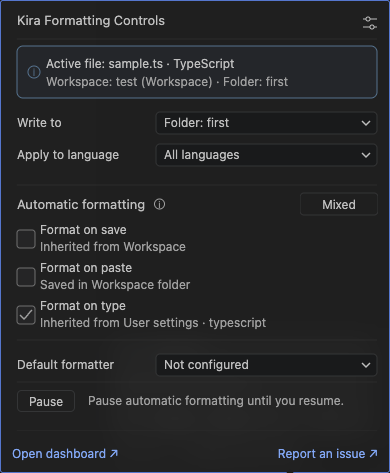
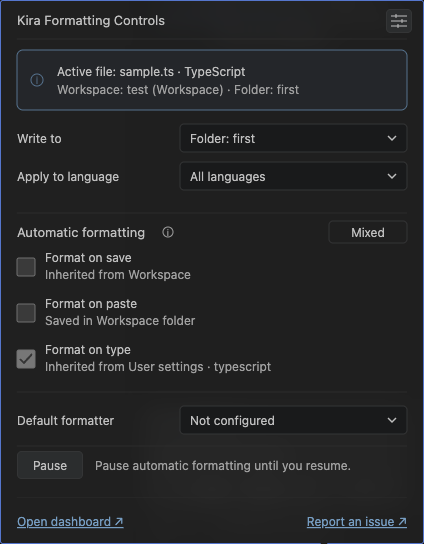
fix: match approved status card proportions

diff --git a/shared/status-artwork.ts b/shared/status-artwork.ts
@@ -28,7 +28,10 @@ const palettes = {
     info: "#22262a",
     input: "#181a1b",
     border: "#333536",
-    checkbox: "#252526",
+    button: "#2a2d2e",
+    checkbox: "#3a3a3a",
+    checkboxChecked: "#777777",
+    checkboxTick: "#353535",
     checkboxBorder: "#707070",
   },
   light: {
@@ -40,7 +43,10 @@ const palettes = {
     info: "#eaf4fa",
     input: "#ffffff",
     border: "#929292",
-    checkbox: "#ffffff",
+    button: "#e6e6e6",
+    checkbox: "#eeeeee",
+    checkboxChecked: "#b8b8b8",
+    checkboxTick: "#555555",
     checkboxBorder: "#929292",
   },
   contrast: {
@@ -52,7 +58,10 @@ const palettes = {
     info: "#000000",
     input: "#000000",
     border: "#ffffff",
+    button: "#000000",
     checkbox: "#000000",
+    checkboxChecked: "#000000",
+    checkboxTick: "#ffffff",
     checkboxBorder: "#ffffff",
   },
   "contrast-light": {
@@ -64,7 +73,10 @@ const palettes = {
     info: "#ffffff",
     input: "#ffffff",
     border: "#000000",
+    button: "#ffffff",
     checkbox: "#ffffff",
+    checkboxChecked: "#ffffff",
+    checkboxTick: "#000000",
     checkboxBorder: "#000000",
   },
 } as const;
@@ -114,7 +126,7 @@ export function statusArtwork(
     anchor: "start" | "middle" = "start",
   ) =>
     `<text x="${x}" y="${y}" font-size="${size}" fill="${color}" text-anchor="${anchor}" dominant-baseline="central">${escapeText(value)}</text>`;
-  const line = (y: number) => `<path d="M5 ${y}H365" stroke="${p.line}"/>`;
+  const line = (y: number) => `<path d="M5 ${y}H395" stroke="${p.line}"/>`;
   const rect = (
     x: number,
     y: number,
@@ -126,10 +138,10 @@ export function statusArtwork(
   ) =>
     `<rect x="${x}" y="${y}" width="${w}" height="${h}" rx="${r}" stroke="${stroke}" fill="${fill}"/>`;
   const dropdown = (y: number, value: string) =>
-    rect(144, y, 221, 22) +
-    text(152, y + 15, shortened(value, 33)) +
-    `<path d="M350 ${y + 9}l4 4 4-4" fill="none" stroke="${p.fg}" stroke-width="1.2"/>`;
-  const svg = (height: number, contents: string, width = 366) =>
+    rect(168, y, 227, 28) +
+    centeredText(178, y + 14, shortened(value, 33)) +
+    `<path d="M376 ${y + 12}l4 4 4-4" fill="none" stroke="${p.fg}" stroke-width="1.2"/>`;
+  const svg = (height: number, contents: string, width = 400) =>
     `<svg xmlns="http://www.w3.org/2000/svg" width="${width}" height="${height}" viewBox="0 0 ${width} ${height}"><g font-family="-apple-system, BlinkMacSystemFont, Segoe WPC, Segoe UI, system-ui, Ubuntu, Droid Sans, sans-serif" font-weight="400">${contents}</g></svg>`;
   const state = context.flags.every(Boolean)
     ? "Enabled"
@@ -159,18 +171,26 @@ export function statusArtwork(
     height: number,
     contents: string,
     alt: string,
-    width = 366,
+    width = 400,
   ) => ({ svg: svg(height, contents, width), alt, width, height });
   const flagContents = ["save", "paste", "type"]
     .map((label, i) => {
-      const y = i * 38;
+      const y = i * 46;
       return (
-        rect(5, y + 9, 18, 18, p.checkboxBorder, p.checkbox, 3) +
+        rect(
+          5,
+          y + 9,
+          18,
+          18,
+          p.checkboxBorder,
+          context.flags[i] ? p.checkboxChecked : p.checkbox,
+          2,
+        ) +
         (context.flags[i]
-          ? `<path d="M8 ${y + 18}l4 4 8-9" stroke="${p.muted}" stroke-width="1.4" fill="none"/>`
+          ? `<path d="M8 ${y + 18}l4 4 8-9" stroke="${p.checkboxTick}" stroke-width="2" fill="none"/>`
           : "") +
-        text(28, y + 13, `Format on ${label}`) +
-        text(28, y + 30, shortened(sourceNotes[i] ?? "", 57), 12, p.muted)
+        text(33, y + 13, `Format on ${label}`) +
+        text(33, y + 30, shortened(sourceNotes[i] ?? "", 59), 12, p.muted)
       );
     })
     .join("");
@@ -188,10 +208,10 @@ export function statusArtwork(
   return {
     settings: image(
       24,
-      rect(0.5, 0.5, 27, 23, p.border, "none") +
-        `<g transform="translate(7 5)" fill="none" stroke="${p.fg}" stroke-width="1"><path d="M0 3h3m4 0h7M0 11h7m4 0h3"/><circle cx="5" cy="3" r="2"/><circle cx="9" cy="11" r="2"/></g>`,
+      rect(0.5, 0.5, 25, 23, p.border, p.button) +
+        `<g transform="translate(5 5)" fill="none" stroke="${p.fg}" stroke-width="1"><path d="M0 2h16M0 7h16M0 12h16M5 0v4M11 5v4M7 10v4"/></g>`,
       "Open VS Code Settings",
-      28,
+      26,
     ),
     info: image(
       20,
@@ -204,25 +224,25 @@ export function statusArtwork(
       28,
       centeredText(5, 14, "Kira Formatting Controls", 13),
       "Kira Formatting Controls",
-      236,
+      270,
     ),
     context: image(
-      64,
+      76,
       line(1) +
-        rect(5, 8, 360, 52, p.focus, p.info, 6) +
-        `<circle cx="22" cy="34" r="6" stroke="${p.focus}" fill="none"/>` +
-        centeredText(22, 34, "i", 10, p.focus, "middle") +
-        centeredText(34, 25, shortened(file, 52)) +
-        centeredText(34, 43, shortened(workspace, 54), 12, p.muted),
+        rect(5, 12, 390, 60, p.focus, p.info, 6) +
+        `<circle cx="25" cy="42" r="6" stroke="${p.focus}" fill="none"/>` +
+        centeredText(25, 42, "i", 10, p.focus, "middle") +
+        centeredText(45, 33, shortened(file, 56)) +
+        centeredText(45, 51, shortened(workspace, 56), 12, p.muted),
       `${file}. ${workspace}.`,
     ),
     scopes: image(
-      80,
-      text(5, 21, "Write to") +
+      96,
+      centeredText(5, 20, "Write to") +
         dropdown(6, scope) +
-        text(5, 53, "Apply to language") +
-        dropdown(38, language) +
-        line(79),
+        centeredText(5, 58, "Apply to language") +
+        dropdown(44, language) +
+        line(95),
       `Write to: ${scope}. Apply to language: ${language}. Read-only.`,
     ),
     heading: image(
@@ -241,46 +261,58 @@ export function statusArtwork(
     summary: image(
       26,
       text(5, 18, "Automatic formatting", 13) +
-        `<circle cx="145" cy="13" r="5" stroke="${p.muted}" fill="none"/>` +
-        centeredText(145, 13, "i", 9, p.muted, "middle") +
-        rect(287, 2, 78, 22, p.border, "none") +
-        centeredText(326, 13, state, 12, p.fg, "middle"),
+        `<circle cx="156" cy="13" r="5" stroke="${p.muted}" fill="none"/>` +
+        centeredText(156, 13, "i", 9, p.muted, "middle") +
+        rect(317, 2, 78, 22, p.border, "none") +
+        centeredText(356, 13, state, 12, p.fg, "middle"),
       `Automatic formatting: ${state}`,
     ),
     formatting: image(
-      114,
+      138,
       flagContents,
       `${flagDescription} Checkbox displays are read-only.`,
     ),
     formatter: image(
-      44,
+      56,
       line(1) +
-        text(5, 30, "Default formatter") +
+        centeredText(5, 29, "Default formatter") +
         dropdown(15, context.formatter ?? "Not configured") +
-        line(43),
+        line(55),
       `Default formatter: ${context.formatter ?? "Not configured"}. Read-only.`,
     ),
     pause: image(
-      22,
-      rect(0.5, 0.5, 57, 21, p.border, p.input) +
+      28,
+      rect(0.5, 0.5, 65, 27, p.border, p.button) +
         centeredText(
-          29,
-          11,
+          33,
+          14,
           context.paused ? "Resume" : "Pause",
           12,
           context.canPause ? p.fg : p.muted,
           "middle",
         ),
       context.paused ? "Resume" : "Pause",
-      58,
+      66,
     ),
-    pauseInset: image(22, "", "", 5),
+    pauseInset: image(28, "", "", 5),
     pauseCaption: image(
-      22,
-      text(13, 15, pauseCaption, 12, p.muted),
+      28,
+      centeredText(12, 14, pauseCaption, 12, p.muted),
       pauseCaption,
-      303,
+      329,
     ),
     separator: image(1, line(0.5), ""),
+    dashboard: image(
+      32,
+      `<text x="5" y="20" font-size="12" fill="${p.accent}" text-decoration="underline">Open dashboard ↗</text>`,
+      "Open dashboard ↗",
+      270,
+    ),
+    issue: image(
+      32,
+      `<text x="125" y="20" text-anchor="end" font-size="12" fill="${p.accent}" text-decoration="underline">Report an issue ↗</text>`,
+      "Report an issue ↗",
+      130,
+    ),
   };
 }

diff --git a/test/status.ts b/test/status.ts
@@ -71,9 +71,9 @@ export async function reviewStatus(
         return {
           badgeOffsetX: badgeText.x + badgeText.width/2 - 39,
           badgeOffsetY: badgeText.y + badgeText.height/2 - 13,
-          contextOffsetY: (file.y + workspace.y + workspace.height)/2 - 34,
-          pauseOffsetX: pauseText.x + pauseText.width/2 - 29,
-          pauseOffsetY: pauseText.y + pauseText.height/2 - 11,
+          contextOffsetY: (file.y + workspace.y + workspace.height)/2 - 42,
+          pauseOffsetX: pauseText.x + pauseText.width/2 - 33,
+          pauseOffsetY: pauseText.y + pauseText.height/2 - 14,
           headerFits: title.x + title.width <= art.header.width,
           captionFits: caption.x + caption.width <= art.pauseCaption.width - 2,
         };
@@ -109,8 +109,8 @@ export async function reviewStatus(
   const loaded = async () => {
     await hover.waitFor({ state: "visible" });
     const images = hover.locator("img");
-    await images.nth(10).waitFor();
-    assert.equal(await images.count(), 11, "All status artwork is rendered");
+    await images.nth(12).waitFor();
+    assert.equal(await images.count(), 13, "All status artwork is rendered");
   };
   const dismiss = async () => {
     // A transient hover may already have closed after a screenshot. Focus it
@@ -216,6 +216,25 @@ export async function reviewStatus(
   );
   const dashboard = hover.getByRole("link", { name: /^Open dashboard/ });
   const issue = hover.getByRole("link", { name: /^Report an issue/ });
+  const contextBounds = await fileInfo.boundingBox();
+  const dashboardBounds = await dashboard.getByRole("img").boundingBox();
+  const issueBounds = await issue.getByRole("img").boundingBox();
+  assert.ok(contextBounds && dashboardBounds && issueBounds);
+  assert.equal(
+    dashboardBounds.x,
+    contextBounds.x,
+    "Footer shares the context artwork's left edge",
+  );
+  assert.equal(
+    issueBounds.x + issueBounds.width,
+    contextBounds.x + contextBounds.width,
+    "Issue action shares the context artwork's right edge",
+  );
+  assert.equal(
+    dashboardBounds.y,
+    issueBounds.y,
+    "Footer actions stay on the same row",
+  );
   assert.equal(await issue.getAttribute("data-href"), issueUrl);
   assert.equal(
     await dashboard.getAttribute("title"),
@@ -226,8 +245,8 @@ export async function reviewStatus(
   assert.equal(await pauseLink.getAttribute("title"), null);
   const pauseImage = pauseLink.getByRole("img", { name: "Pause", exact: true });
   assert.equal(await pauseImage.getAttribute("title"), null);
-  assert.equal((await pauseImage.boundingBox())?.width, 58);
-  assert.equal((await pauseImage.boundingBox())?.height, 22);
+  assert.equal((await pauseImage.boundingBox())?.width, 66);
+  assert.equal((await pauseImage.boundingBox())?.height, 28);
   const caption = hover.getByRole("img", {
     name: "Pause automatic formatting until you resume.",
     exact: true,

diff --git a/test/unit/status-hover.ts b/test/unit/status-hover.ts
@@ -37,17 +37,14 @@ test("reference artwork has live values, accessible descriptions and read-only f
     art.formatting.alt,
     /Format on paste: Enabled.*Inherited from User settings/,
   );
-  assert.equal(
-    [...art.formatting.svg.matchAll(/stroke-width="1.4"/g)].length,
-    1,
-  );
+  assert.equal([...art.formatting.svg.matchAll(/stroke-width="2"/g)].length, 1);
   const html = statusHover(context);
   assert.ok(!/<input|<select|<button|<script|<style/.test(html));
   const actions = [...html.matchAll(/statusControl\?([^"]*)/g)].map((match) =>
     JSON.parse(decodeURIComponent(match[1] ?? "")),
   );
   assert.deepEqual(actions, [[7, "pause"]]);
-  assert.match(html, /width="366" height="64"/);
+  assert.match(html, /width="400" height="76"/);
   assert.equal(art.header.alt, "Kira Formatting Controls");
   assert.match(art.state.alt, /Mixed/);
   assert.match(art.summary.alt, /Mixed/);
@@ -166,7 +163,7 @@ test("only actions are linked while information regions remain hover-only", () =
     );
     assert.ok(button);
     assert.equal(button[1], "");
-    assert.match(button[2] ?? "", /width="58" height="22"/);
+    assert.match(button[2] ?? "", /width="66" height="28"/);
     assert.doesNotMatch(
       button[2] ?? "",
       /until you resume|previous formatting/,
@@ -182,8 +179,9 @@ test("only actions are linked while information regions remain hover-only", () =
     );
     assert.match(html, /title="Open Kira Formatting Controls dashboard"/);
     assert.match(html, /title="Open a new issue on GitHub"/);
-    assert.match(html, /<u>Open dashboard ↗<\/u>/);
-    assert.match(html, /<u>Report an issue ↗<\/u>/);
+    const art = statusArtwork({ ...context, paused });
+    assert.match(art.dashboard.svg, /text-decoration="underline"/);
+    assert.match(art.issue.svg, /text-decoration="underline"/);
   }
 });
 

diff --git a/shared/status-hover.ts b/shared/status-hover.ts
@@ -34,7 +34,7 @@ export function statusHover(
     );
   const fullRow = (contents: string) =>
     `<tr><td colspan="2">${contents}</td></tr>`;
-  return `<table width="366"><colgroup><col width="236"><col width="130"></colgroup><tbody>${[
+  return `<table width="400"><colgroup><col width="270"><col width="130"></colgroup><tbody>${[
     `<tr><td>${image(art.header)}</td><td align="right"><a href="command:workbench.action.openSettings?${encodeURIComponent(JSON.stringify(["editor.formatOn"]))}" title="Open VS Code Settings">${image(art.settings)}</a></td></tr>`,
     fullRow(titled(image(art.context), statusHelp.file)),
     fullRow(image(art.scopes)),
@@ -49,6 +49,8 @@ export function statusHover(
         image(art.pauseCaption),
     ),
     fullRow(image(art.separator)),
-    `<tr><td height="28"><a href="command:formattingControls.dashboard" title="Open Kira Formatting Controls dashboard"><u>Open dashboard ↗</u></a></td><td align="right"><a href="${issueUrl}" title="Open a new issue on GitHub"><u>Report an issue ↗</u></a></td></tr>`,
+    fullRow(
+      `<a href="command:formattingControls.dashboard" title="Open Kira Formatting Controls dashboard">${image(art.dashboard)}</a><a href="${issueUrl}" title="Open a new issue on GitHub">${image(art.issue)}</a>`,
+    ),
   ].join("")}</tbody></table>`;
 }

diff --git a/docs/status-controls.md b/docs/status-controls.md
@@ -2,7 +2,7 @@
 
 Hover and click open the same anchored card above the Formatting status-bar item. Click focuses and pins it; Escape dismisses it. Enter on the focused status item opens it. A normal status click creates neither a docked Panel view nor an editor tab.
 
-The header shows **Kira Formatting Controls** with a compact 16px Settings/sliders icon. Version details remain in the Extensions listing. The app icon appears in that listing; the card has no app logo. The package ID remains `rajudhami.formatting-controls`.
+The header shows **Kira Formatting Controls** with a 16px three-slider Settings icon inside a fixed 26px by 24px box. Version details remain in the Extensions listing. The app icon appears in that listing; the card has no app logo. The package ID remains `rajudhami.formatting-controls`.
 
 ![Anchored formatting controls](assets/status-card-dark.png)
 
@@ -21,7 +21,7 @@ The complete file box and Automatic formatting summary row have stable explanato
 
 At a workspace/folder destination, **Pause** previews disabling only Save/Paste/Type. Its caption is **Pause automatic formatting until you resume.**
 
-After confirmation and successful application, the button becomes **Resume**, with **Restore your previous formatting settings.** Only the 58px by 22px button is linked; clicking its caption does nothing. Resume restores unchanged pre-pause preferences while preserving newer edits; it does not enable every trigger automatically. After successful restoration the button and caption return to Pause. Both states reserve identical dimensions. Cancellation retains the prior state.
+After confirmation and successful application, the button becomes **Resume**, with **Restore your previous formatting settings.** Only the 66px by 28px button is linked; clicking its caption does nothing. Resume restores unchanged pre-pause preferences while preserving newer edits; it does not enable every trigger automatically. After successful restoration the button and caption return to Pause. Both states reserve identical dimensions. Cancellation retains the prior state.
 
 The existing native JSON preview, confirmation and durable recovery workflow are unchanged. Save actions and the formatter selection remain unchanged. No timer or automatic resumption is introduced.
 
@@ -29,11 +29,11 @@ The existing native JSON preview, confirmation and durable recovery workflow are
 
 VS Code's public `StatusBarItem.tooltip` accepts Markdown, images and command links; arbitrary form styling is sanitized. Locally generated inert SVG images preserve the approved layout, with native links for navigation and help. No scripts, external images, rendering network calls or rendering files are used.
 
-The title and section heading use 13px regular text and body/control text 12px. Read-only fields and the status badge have 22px outlines. Setting rows use a compact 38px rhythm. Checkbox and button labels are centered; the file/workspace block and enlarged 12px context info icon are vertically centered. The formatting heading, info glyph and fixed-width status badge share one hover-only image. The badge and Pause/Resume button retain fixed dimensions across all states.
+The 400px content width follows the approved reference. The title and section heading use 13px regular text and body/control text 12px. Read-only fields have 28px outlines and the fixed status badge has a 22px outline. Setting rows use a 46px rhythm with 10px between each disabled-style checkbox and its text. Checked boxes have a muted fill and dark tick; unchecked boxes have a darker fill. High-contrast themes retain distinct ticks and outlines. The file/workspace block and context info icon are vertically centered, with a 14px gap between the icon and text. The formatting heading, info glyph and fixed-width status badge share one hover-only image. The filled Pause/Resume button retains fixed dimensions across both states. Underlined footer artwork shares the same content width and aligns to the card edges independently of VS Code's native table-column sizing.
 
 Transparent artwork reveals the native hover surface. Dark, light, high-contrast and high-contrast-light palettes follow the theme kind; arbitrary custom theme colors/fonts are not available inside the image renderer. Native links follow the editor's own hover/focus styling. The public Markdown tooltip cannot reproduce Copilot's custom grey icon-button hover fill or enforce a custom hover underline. This limitation does not change layout or actions.
 
-VS Code controls the outer frame, pointer and hover delay. Explicit image dimensions reserve space while images load. Click-to-focus uses the built-in `workbench.action.showHover` command, checked on minimum and current editor versions; this is a compatibility dependency rather than a dedicated public status-item pinning API.
+VS Code controls the outer frame, pointer and hover delay. Its Markdown sanitizer does not allow `cursor: help` or `cursor: not-allowed`; information and read-only images keep the host's normal cursor, while command links use its action cursor. Tooltips and muted checkbox styling distinguish information and read-only values without introducing false click actions. Explicit image dimensions reserve space while images load. Click-to-focus uses the built-in `workbench.action.showHover` command, checked on minimum and current editor versions; this is a compatibility dependency rather than a dedicated public status-item pinning API.
 
 Sources: [StatusBarItem](https://code.visualstudio.com/api/references/vscode-api#StatusBarItem), [Markdown input handling](https://github.com/microsoft/vscode/blob/1.143.1/src/vs/base/browser/markdownRenderer.ts).
 

diff --git a/CHANGELOG.md b/CHANGELOG.md
@@ -2,6 +2,8 @@
 
 ## 0.5.0 — Unreleased
 
+Matched the approved status-card proportions with wider content, a boxed three-slider Settings glyph, increased icon/text gaps, disabled-style checkbox artwork and a larger filled Pause/Resume button. Footer actions now use measured underlined artwork to keep their alignment independent of native table-column sizing. Information and read-only cursor shapes remain controlled by VS Code's Markdown renderer.
+
 Made the active-file box and complete Automatic formatting summary hover-only information regions, with no click command or background notification. Boxed the compact Settings glyph, permanently underlined the footer links, added concise destination titles and retained normal cursors for read-only artwork. The formatting summary is one fixed-width image so Enabled, Disabled and Mixed never shift the layout.
 
 Implemented the approved Kira Formatting Controls card: full title, compact top-right sliders Settings icon, stable explanatory help, fixed-width Enabled/Disabled/Mixed badge beside Automatic formatting, checkbox-only states and readable source notes. Version details remain in the Extensions listing. Added repository issue reporting beside Open dashboard and enlarged the context info icon. Pause/Resume uses the agreed manual-resume captions with identical geometry; only the button is linked. Removed redundant Pause/Resume and footer hover titles. Native links retain the editor's hover/focus styling; custom Copilot icon-button hover fills and hover-only underlines remain outside the public tooltip API.
